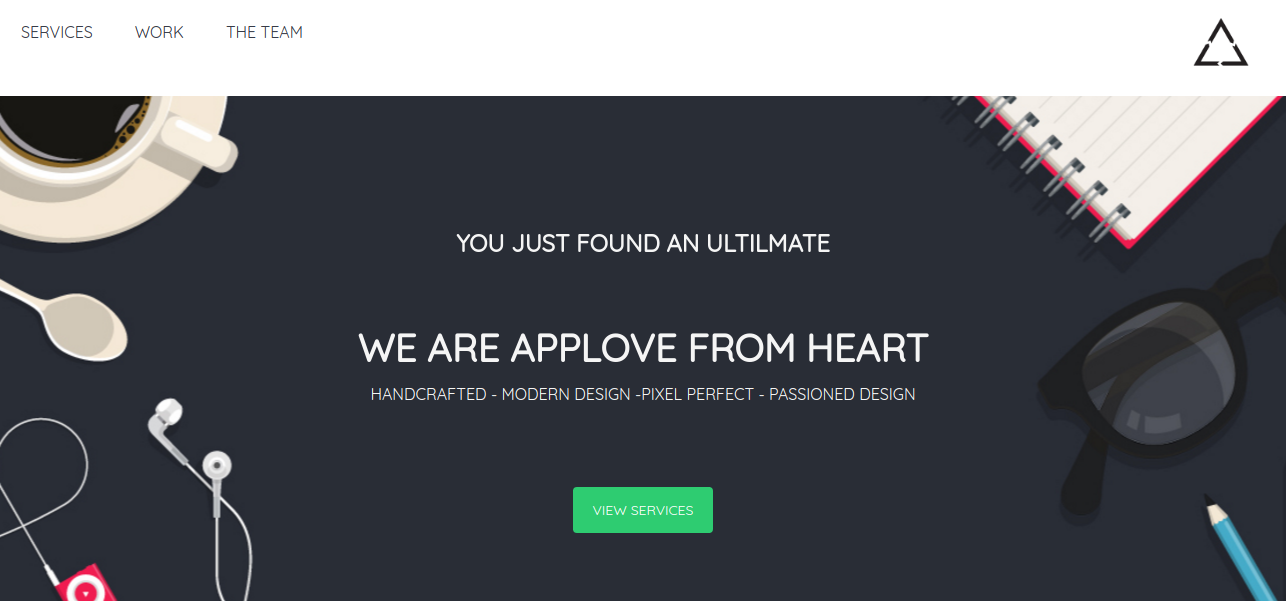
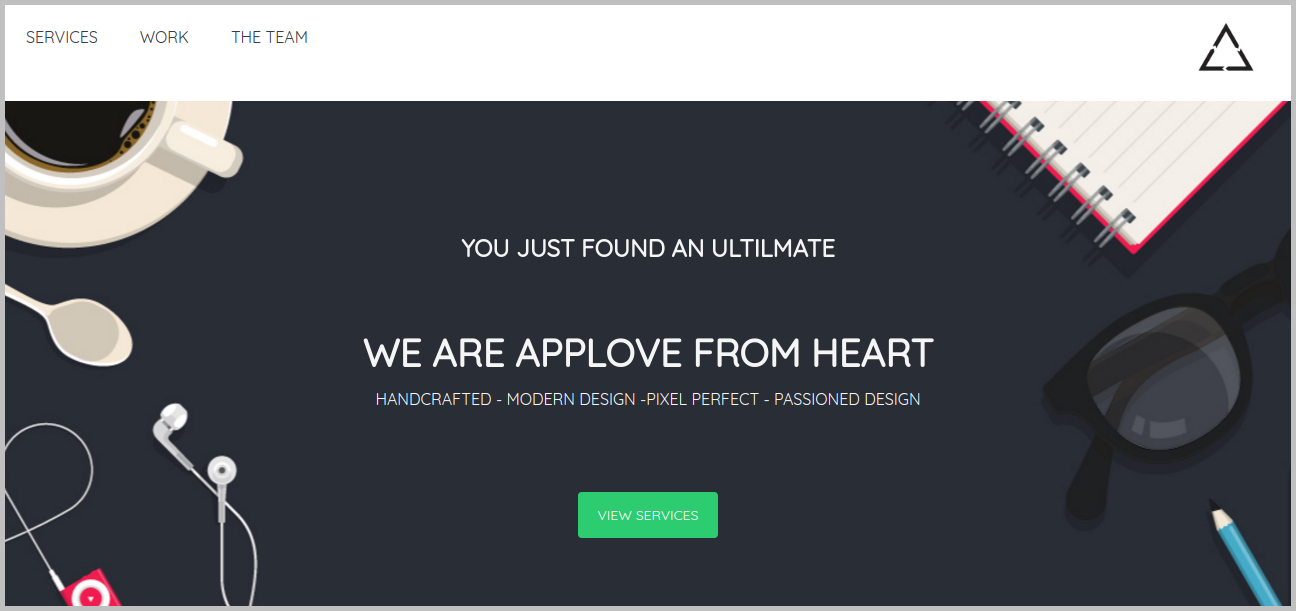
efecto portafolio

diff --git a/index.html b/index.html
@@ -15,7 +15,7 @@
 		<div class="container">
 			<a class="text-uppercase text-start">DV</a>
 			<a href="#contactme" class="text-uppercase link" id="navContact">work tools</a>			
-			<a href="#about" class="text-uppercase link" id="navAbout">About</a>
+			<a href="#about" class="text-uppercase link" id="navAbout">About Me</a>
 			<a href="#portfolio" class="text-uppercase link" id="navPortfolio">Portfolio</a>			
 		</div>
 	</header>
@@ -43,19 +43,14 @@
 	</section>
 	<section id="gallery">
 		<div class="container">
-
 			<div class="row">
 				<div class="col-4 box">
-					<a href="https://dianavillasmil.github.io/freelancer-laboratoria_ejercicio_evaluado_2/"><img src="assets/images/portfolio/start-bootstrap4.png" alt="start-bootstrap4" width="350"></a>
-				</div>
-				<div class="effect-">
-					<div class="text">
-						<div class="title"></div>
-						<div class="proyect"></div>
+					<a src="https://dianavillasmil.github.io/freelancer-laboratoria_ejercicio_evaluado_2/"><img src="assets/images/portfolio/start-bootstrap4.png" alt="start-bootstrap4" width="350"></a>
+					<div class="effect-">						
+						<h2>LAYOUT & GRID SYSTEM</h2>				
+						<p>Start-bootstrap</p>
 					</div>
 				</div>
-
-
 				<div class="col-4 box">
 					<a href="https://dianavillasmil.github.io/culinary-lab/"><img src="assets/images/portfolio/culinary.png" alt="culinary" width="350"></a>
 				</div>
@@ -107,15 +102,15 @@
 			</h2>
 			<div class="row">
 				<div class="col-4 box">
-					<a href="/"><img src="assets/images/html5-logo.png" alt="the-koala" width="500"></a>
+					<a href="/"><img src="assets/images/html5-logo.png" alt="the-koala" width="300"></a>
 				</div>
 
 				<div class="col-4 box margin">
-					<a href="/"><img src="assets/images/Badge_js-strict.svg.png" alt="culinary" width="400"></a>
+					<a href="/"><img src="assets/images/Badge_js-strict.svg.png" alt="culinary" width="200"></a>
 				</div>
 
 				<div class="col-4 box">
-					<a href="/"><img src="assets/images/CSS3_logo_and_wordmark.svg.png" alt="start-bootstrap4" width="360"></a>
+					<a href="/"><img src="assets/images/CSS3_logo_and_wordmark.svg.png" alt="start-bootstrap4" width="225"></a>
 				</div>
 			</div>
 		</div>
@@ -140,7 +135,7 @@
 				</div>
 				<div class="col-4">
 					<a href="/"><i class="fa fa-envelope" aria-hidden="true"></i></a><br>
-					<p>diacavipi@gmail/hotmail.com</p>
+					<p>diacavipi@gmail.com</p><p>diacavipi@hotmail.com</p>
 					<a href="https://www.linkedin.com/in/diana-carolina-villasmil-pirela-043740ba/"><i class="fa fa-linkedin" aria-hidden="true"></i></a>
 				</div>
 				<div class="col-4">

diff --git a/assets/css/main.css b/assets/css/main.css
@@ -94,7 +94,7 @@ body {
 
 header {
     position: fixed;
-    background-color: #94aad5;
+    background-color: #7b8096;
     width: 100%;
     font-size: 20px;
     font-family: 'Akronim', cursive;
@@ -121,11 +121,12 @@ header a {
 }
 
 header a.selected {
-  background-color: #868ca8;
+  background-color: #e7f0f9;
+  color: #7b8096;
 }
 
 a:hover {
-  color: #868ca8;
+  color: #e7f0f9;
 }
 
 .text-uppercase {
@@ -260,8 +261,53 @@ img {
   border-radius: 50%;
 }
 
+/*hover imagen portafolio*/
+
+.box img {
+transition: all 0.2s linear;
+}
+.box .mascara {
+opacity: 0;
+background-color: rgba(46,157,120, 0.7);
+transition: all 0.3s ease-in-out;
+}
+.box h2 {
+transform: translateX(-200px);/*Desplazamos a la izquierda*/
+opacity: 0;
+transition: all 0.7s ease-in-out;
+}
+.box p {
+transform: translateX(200px);/*Desplazamos a la derecha*/
+opacity: 0;
+transition: all 0.4s linear;
+}
+.box a.link{
+opacity: 0;
+transition: all 0.4s ease-in-out;
+transform: translateY(100px)/*Desplazamos para abajo*/
+}
+.box:hover img {
+transform: scale(1.1);/*Damos un ligero zoom a la imagen*/
+}
+.box:hover .mascara {
+opacity: 1;
+}
+.box:hover h2,
+.box:hover p,
+.box:hover a.link {
+opacity: 1;
+transform: translateX(0px);/*Regresamos a las posiciones originales*/
+}
+.box:hover p {
+transition-delay: 0.1s;
+}
+.box:hover a.link {
+transition-delay: 0.2s; /*Aplicamos un pequeño retardo para que se muestre al final*/
+transform: translateY(0px);
+}
+
 footer {
-  background-color: #94aad5;
+  background-color: #7b8096;
   color: white;
   text-align: center;
   padding: 25px;
@@ -299,3 +345,5 @@ footer {
   transition-duration: 600ms;
   cursor: pointer;
 }
+
+/*http://www.miguelmanchego.com/2015/css3-efectos-hover-para-imagenes/*/
